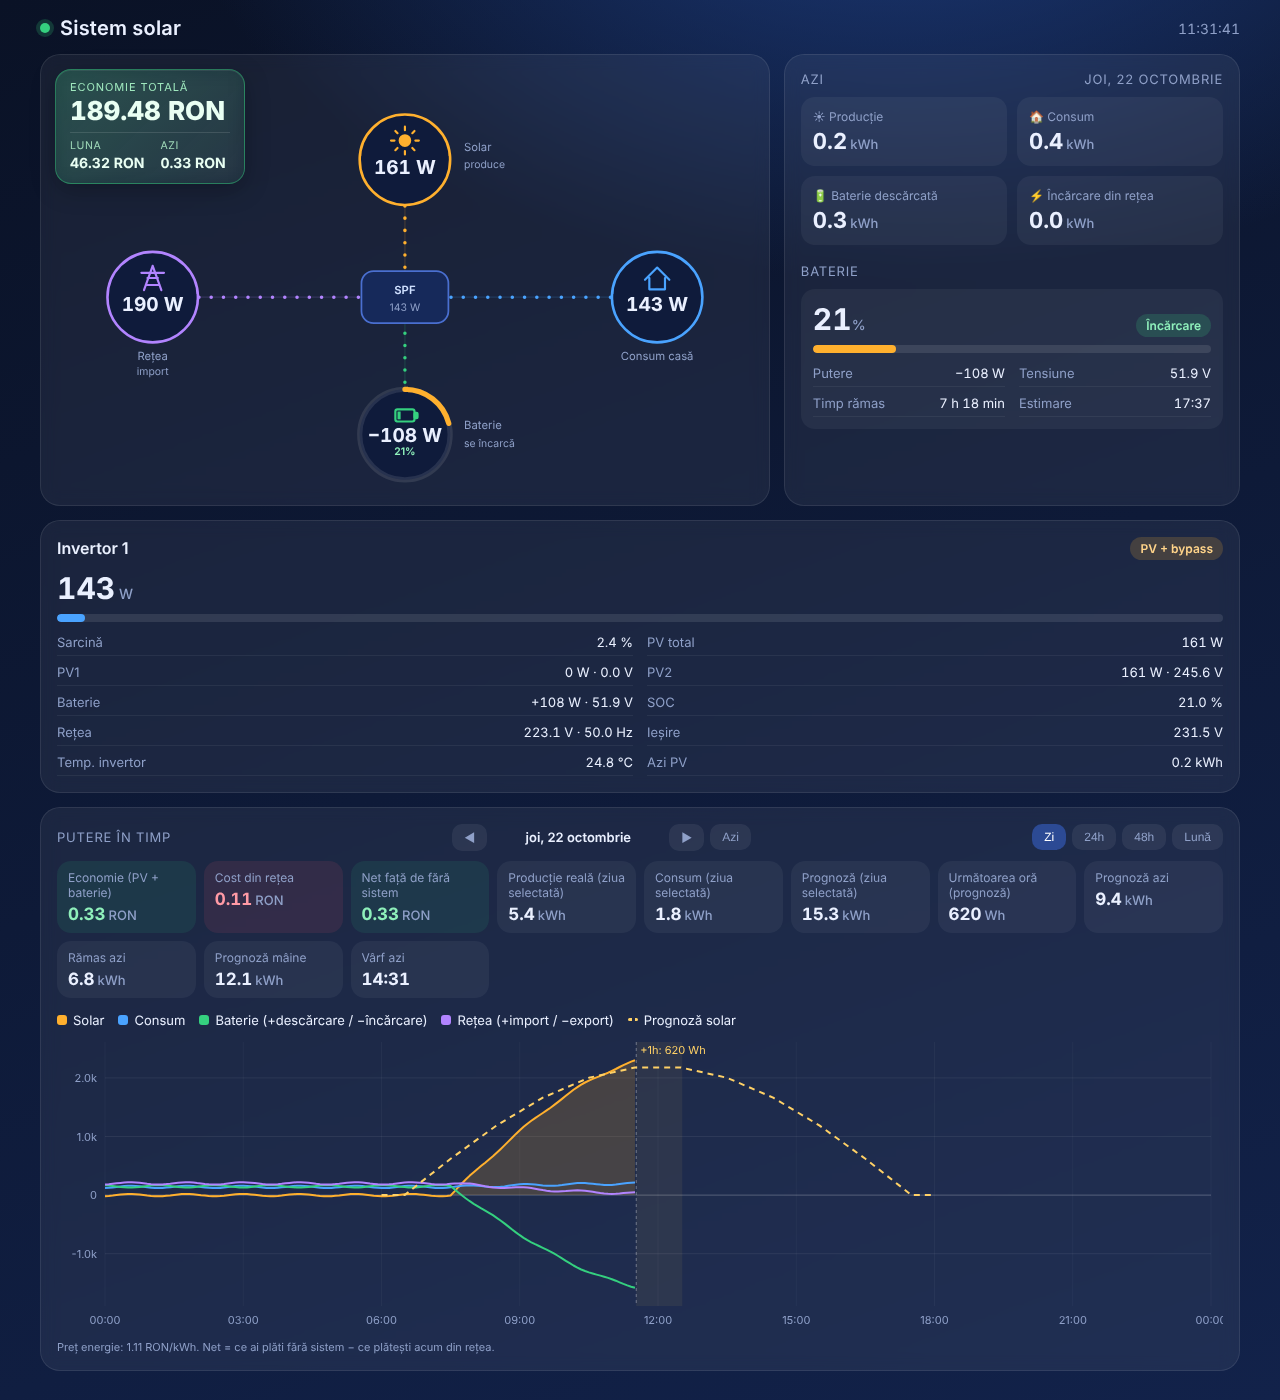
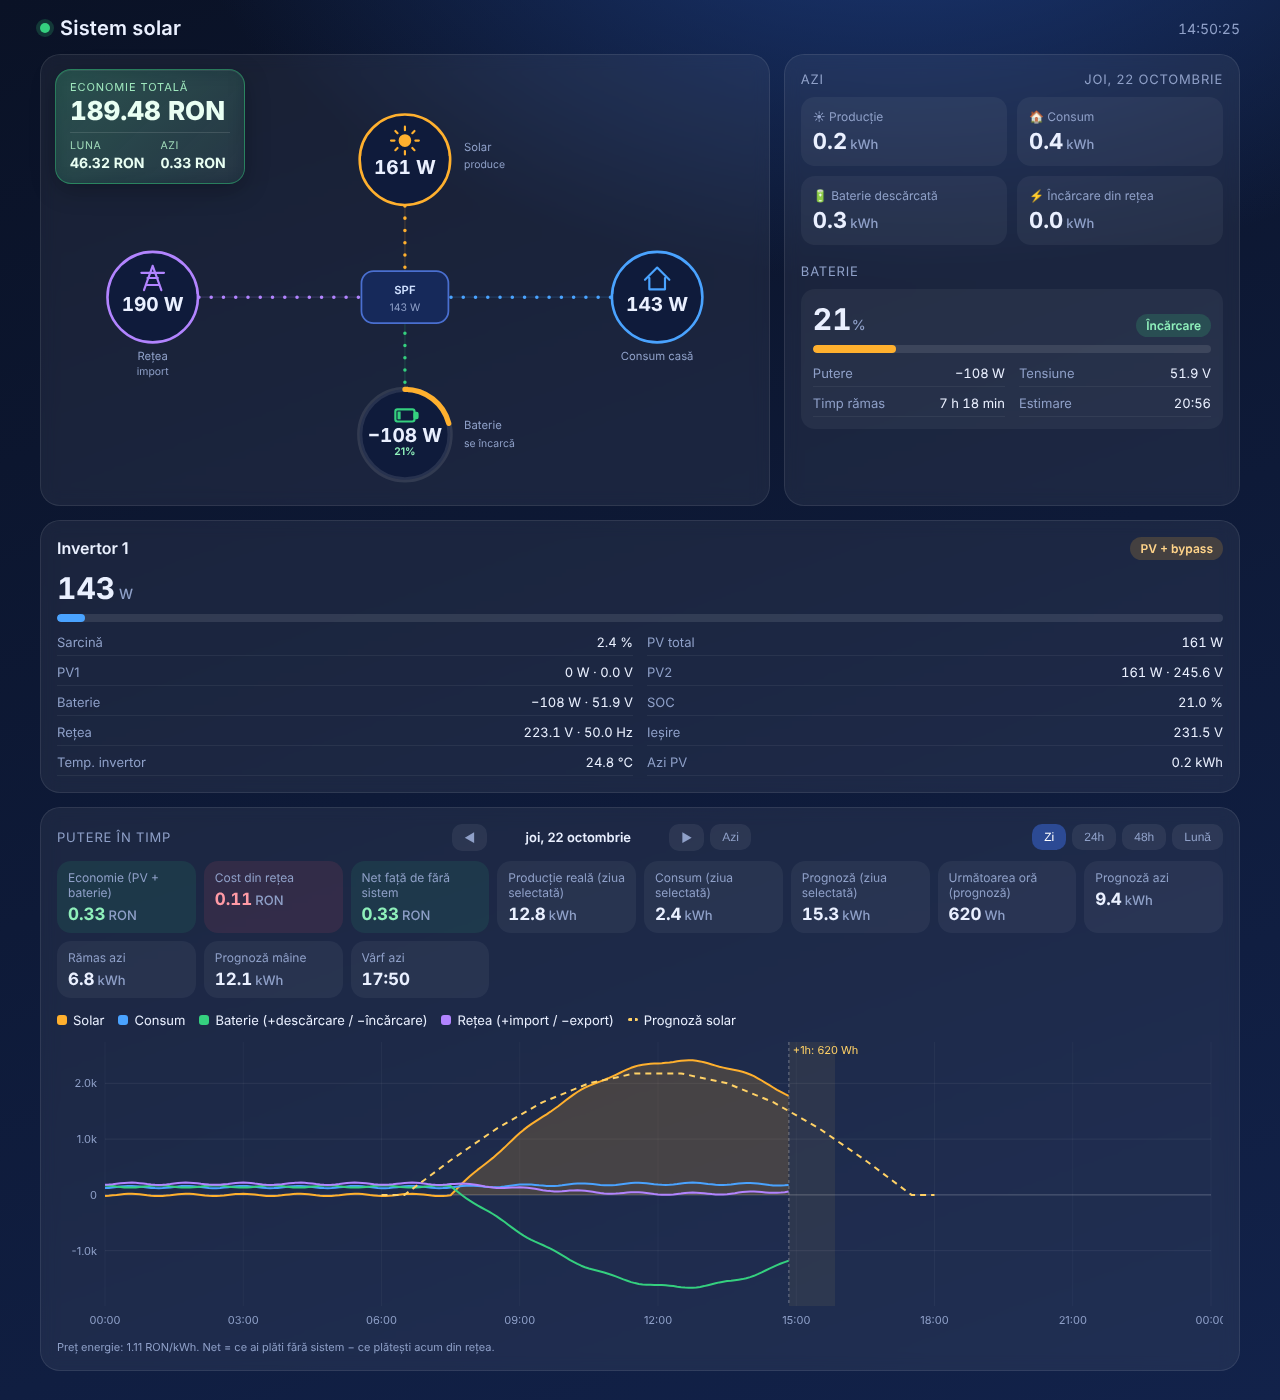
Dashboard: chart keeps the last real value, area starts with the data, same battery sign everywhere, ETA shows the day
- Home Assistant stores a state only when it changes, so an empty chart bucket
  now repeats the last real value instead of the previous bucket's average (a
  grid import that dropped to 0 stayed drawn at ~1.1 kW and inflated the grid cost).
- The shaded area under the solar curve closes where the data starts, not at 00:00.
- Inverter card shows battery power with the page's sign (+ discharging, - charging).
- Battery ETA more than a day away shows the weekday.

diff --git a/homeassistant/dashboard/solar-1-inverter-grid.html b/homeassistant/dashboard/solar-1-inverter-grid.html
@@ -244,6 +244,8 @@ function fmtH(h){if(!isFinite(h))return '–';const m=Math.round(h*60);return Ma
 function k1(v){return isFinite(v)?v.toFixed(1):'–'}
 function sum(ids){let t=0,ok=false;for(const i of ids){const v=num(i);if(isFinite(v)){t+=v;ok=true}}return ok?t:NaN}
 const hm=t=>new Date(t).toLocaleTimeString('ro-RO',{hour:'2-digit',minute:'2-digit'});
+/* clock time, with the day when it is not today (e.g. "sâm. 05:54") */
+const whenTxt=t=>{const d=new Date(t),n=new Date();return d.toDateString()===n.toDateString()?hm(d):d.toLocaleDateString('ro-RO',{weekday:'short'})+' '+hm(d)};
 const ron=v=>isFinite(v)?(v<0?'−':'')+Math.abs(v).toFixed(2)+' RON':'–';
 const ronN=v=>isFinite(v)?(v<0?'−':'')+Math.abs(v).toFixed(2):'–';
 
@@ -352,7 +354,7 @@ function update(){
   const eta=dis?num(E.etaEmpty):chg?num(E.etaFull):NaN;
   $('b_eta').textContent=fmtH(eta);
   const etat=dis?st(E.etaEmptyT):chg?st(E.etaFullT):null;
-  $('b_etat').textContent=etat&&etat.state&&etat.state!=='unknown'&&etat.state!=='unavailable'?hm(etat.state):'–';
+  $('b_etat').textContent=etat&&etat.state&&etat.state!=='unknown'&&etat.state!=='unavailable'?whenTxt(etat.state):'–';
   const T=(a)=>sum(INV.flatMap(n=>a.map(s=>`sensor.growatt_${n}_${s}`)));
   $('t_pv').innerHTML=k1(T(['pv_energy_today']))+'<small>kWh</small>';
   $('t_load').innerHTML=k1(T(['op_discharge_energy_today']))+'<small>kWh</small>';
@@ -371,7 +373,7 @@ function update(){
     $(`i${n}_pv`).textContent=fmtW(nz(p1)+nz(p2));
     $(`i${n}_pv1`).textContent=fmtW(p1)+' · '+k1(num(p('pv1_voltage')))+' V';
     $(`i${n}_pv2`).textContent=fmtW(p2)+' · '+k1(num(p('pv2_voltage')))+' V';
-    const bpw=num(p('battery_power'));
+    const bpw=num(p('battery_power'))*BATSIGN; /* same sign as the rest of the page */
     $(`i${n}_bat`).textContent=(isFinite(bpw)?sgn(Math.round(bpw))+fmtW(Math.abs(bpw)):'–')+' · '+k1(num(p('battery_voltage')))+' V';
     $(`i${n}_soc`).textContent=k1(num(p('battery_soc')))+' %';
     $(`i${n}_gv`).textContent=k1(num(p('grid_voltage')))+' V · '+k1(num(p('grid_frequency')))+' Hz';
@@ -474,16 +476,17 @@ async function loadHist(){
       entity_ids:ids,minimal_response:true,no_attributes:true,significant_changes_only:false});
     for(const s of SER){
       if(!s.id)continue;
-      const sm=new Array(n).fill(0),cnt=new Array(n).fill(0);
+      /* HA stores a state only when it changes: an empty bucket keeps the last real value, not the previous average */
+      const sm=new Array(n).fill(0),cnt=new Array(n).fill(0),lastv=new Array(n).fill(null);
       for(const r of (res[s.id]||[])){
         const v=parseFloat(r.s);if(!isFinite(v))continue;
         const ts=(r.lu??r.lc)*1000;
-        const i=Math.floor((ts-t0)/step);if(i<0||i>=n)continue;sm[i]+=v*s.sign;cnt[i]++;
+        const i=Math.floor((ts-t0)/step);if(i<0||i>=n)continue;sm[i]+=v*s.sign;cnt[i]++;lastv[i]=v*s.sign;
       }
       let last=null;const arr=[];
       for(let i=0;i<n;i++){
         if(t0+i*step>end){arr.push(null);continue}
-        if(cnt[i])last=sm[i]/cnt[i];arr.push(last);
+        if(cnt[i]){arr.push(sm[i]/cnt[i]);last=lastv[i]}else arr.push(last);
       }
       nd.s[s.k]=arr;
     }
@@ -624,8 +627,9 @@ function draw(){
     for(let i=0;i<a.length;i++){if(a[i]==null)continue;d+=(started?'L':'M')+X(data.t0+i*data.step).toFixed(1)+' '+Y(a[i]).toFixed(1);started=true}
     if(s.area&&started){
       let li=a.length-1;while(li>0&&a[li]==null)li--;
+      let fi=0;while(fi<li&&a[fi]==null)fi++;
       const y0=Y(Math.max(lo,0));
-      o+=`<path d="${d}L${X(data.t0+li*data.step)} ${y0}L${X(data.t0)} ${y0}Z" fill="${s.c}" opacity=".18"/>`;
+      o+=`<path d="${d}L${X(data.t0+li*data.step)} ${y0}L${X(data.t0+fi*data.step)} ${y0}Z" fill="${s.c}" opacity=".18"/>`;
     }
     o+=`<path d="${d}" fill="none" stroke="${s.c}" stroke-width="2" stroke-linejoin="round"/>`;
   }

diff --git a/homeassistant/dashboard/solar-1-inverter.html b/homeassistant/dashboard/solar-1-inverter.html
@@ -244,6 +244,8 @@ function fmtH(h){if(!isFinite(h))return '–';const m=Math.round(h*60);return Ma
 function k1(v){return isFinite(v)?v.toFixed(1):'–'}
 function sum(ids){let t=0,ok=false;for(const i of ids){const v=num(i);if(isFinite(v)){t+=v;ok=true}}return ok?t:NaN}
 const hm=t=>new Date(t).toLocaleTimeString('ro-RO',{hour:'2-digit',minute:'2-digit'});
+/* clock time, with the day when it is not today (e.g. "sâm. 05:54") */
+const whenTxt=t=>{const d=new Date(t),n=new Date();return d.toDateString()===n.toDateString()?hm(d):d.toLocaleDateString('ro-RO',{weekday:'short'})+' '+hm(d)};
 const ron=v=>isFinite(v)?(v<0?'−':'')+Math.abs(v).toFixed(2)+' RON':'–';
 const ronN=v=>isFinite(v)?(v<0?'−':'')+Math.abs(v).toFixed(2):'–';
 
@@ -352,7 +354,7 @@ function update(){
   const eta=dis?num(E.etaEmpty):chg?num(E.etaFull):NaN;
   $('b_eta').textContent=fmtH(eta);
   const etat=dis?st(E.etaEmptyT):chg?st(E.etaFullT):null;
-  $('b_etat').textContent=etat&&etat.state&&etat.state!=='unknown'&&etat.state!=='unavailable'?hm(etat.state):'–';
+  $('b_etat').textContent=etat&&etat.state&&etat.state!=='unknown'&&etat.state!=='unavailable'?whenTxt(etat.state):'–';
   const T=(a)=>sum(INV.flatMap(n=>a.map(s=>`sensor.growatt_${n}_${s}`)));
   $('t_pv').innerHTML=k1(T(['pv_energy_today']))+'<small>kWh</small>';
   $('t_load').innerHTML=k1(T(['op_discharge_energy_today']))+'<small>kWh</small>';
@@ -371,7 +373,7 @@ function update(){
     $(`i${n}_pv`).textContent=fmtW(nz(p1)+nz(p2));
     $(`i${n}_pv1`).textContent=fmtW(p1)+' · '+k1(num(p('pv1_voltage')))+' V';
     $(`i${n}_pv2`).textContent=fmtW(p2)+' · '+k1(num(p('pv2_voltage')))+' V';
-    const bpw=num(p('battery_power'));
+    const bpw=num(p('battery_power'))*BATSIGN; /* same sign as the rest of the page */
     $(`i${n}_bat`).textContent=(isFinite(bpw)?sgn(Math.round(bpw))+fmtW(Math.abs(bpw)):'–')+' · '+k1(num(p('battery_voltage')))+' V';
     $(`i${n}_soc`).textContent=k1(num(p('battery_soc')))+' %';
     $(`i${n}_gv`).textContent=k1(num(p('grid_voltage')))+' V · '+k1(num(p('grid_frequency')))+' Hz';
@@ -474,16 +476,17 @@ async function loadHist(){
       entity_ids:ids,minimal_response:true,no_attributes:true,significant_changes_only:false});
     for(const s of SER){
       if(!s.id)continue;
-      const sm=new Array(n).fill(0),cnt=new Array(n).fill(0);
+      /* HA stores a state only when it changes: an empty bucket keeps the last real value, not the previous average */
+      const sm=new Array(n).fill(0),cnt=new Array(n).fill(0),lastv=new Array(n).fill(null);
       for(const r of (res[s.id]||[])){
         const v=parseFloat(r.s);if(!isFinite(v))continue;
         const ts=(r.lu??r.lc)*1000;
-        const i=Math.floor((ts-t0)/step);if(i<0||i>=n)continue;sm[i]+=v*s.sign;cnt[i]++;
+        const i=Math.floor((ts-t0)/step);if(i<0||i>=n)continue;sm[i]+=v*s.sign;cnt[i]++;lastv[i]=v*s.sign;
       }
       let last=null;const arr=[];
       for(let i=0;i<n;i++){
         if(t0+i*step>end){arr.push(null);continue}
-        if(cnt[i])last=sm[i]/cnt[i];arr.push(last);
+        if(cnt[i]){arr.push(sm[i]/cnt[i]);last=lastv[i]}else arr.push(last);
       }
       nd.s[s.k]=arr;
     }
@@ -624,8 +627,9 @@ function draw(){
     for(let i=0;i<a.length;i++){if(a[i]==null)continue;d+=(started?'L':'M')+X(data.t0+i*data.step).toFixed(1)+' '+Y(a[i]).toFixed(1);started=true}
     if(s.area&&started){
       let li=a.length-1;while(li>0&&a[li]==null)li--;
+      let fi=0;while(fi<li&&a[fi]==null)fi++;
       const y0=Y(Math.max(lo,0));
-      o+=`<path d="${d}L${X(data.t0+li*data.step)} ${y0}L${X(data.t0)} ${y0}Z" fill="${s.c}" opacity=".18"/>`;
+      o+=`<path d="${d}L${X(data.t0+li*data.step)} ${y0}L${X(data.t0+fi*data.step)} ${y0}Z" fill="${s.c}" opacity=".18"/>`;
     }
     o+=`<path d="${d}" fill="none" stroke="${s.c}" stroke-width="2" stroke-linejoin="round"/>`;
   }

diff --git a/homeassistant/dashboard/solar-3-inverters.html b/homeassistant/dashboard/solar-3-inverters.html
@@ -244,6 +244,8 @@ function fmtH(h){if(!isFinite(h))return '–';const m=Math.round(h*60);return Ma
 function k1(v){return isFinite(v)?v.toFixed(1):'–'}
 function sum(ids){let t=0,ok=false;for(const i of ids){const v=num(i);if(isFinite(v)){t+=v;ok=true}}return ok?t:NaN}
 const hm=t=>new Date(t).toLocaleTimeString('ro-RO',{hour:'2-digit',minute:'2-digit'});
+/* clock time, with the day when it is not today (e.g. "sâm. 05:54") */
+const whenTxt=t=>{const d=new Date(t),n=new Date();return d.toDateString()===n.toDateString()?hm(d):d.toLocaleDateString('ro-RO',{weekday:'short'})+' '+hm(d)};
 const ron=v=>isFinite(v)?(v<0?'−':'')+Math.abs(v).toFixed(2)+' RON':'–';
 const ronN=v=>isFinite(v)?(v<0?'−':'')+Math.abs(v).toFixed(2):'–';
 
@@ -352,7 +354,7 @@ function update(){
   const eta=dis?num(E.etaEmpty):chg?num(E.etaFull):NaN;
   $('b_eta').textContent=fmtH(eta);
   const etat=dis?st(E.etaEmptyT):chg?st(E.etaFullT):null;
-  $('b_etat').textContent=etat&&etat.state&&etat.state!=='unknown'&&etat.state!=='unavailable'?hm(etat.state):'–';
+  $('b_etat').textContent=etat&&etat.state&&etat.state!=='unknown'&&etat.state!=='unavailable'?whenTxt(etat.state):'–';
   const T=(a)=>sum(INV.flatMap(n=>a.map(s=>`sensor.growatt_${n}_${s}`)));
   $('t_pv').innerHTML=k1(T(['pv_energy_today']))+'<small>kWh</small>';
   $('t_load').innerHTML=k1(T(['op_discharge_energy_today']))+'<small>kWh</small>';
@@ -371,7 +373,7 @@ function update(){
     $(`i${n}_pv`).textContent=fmtW(nz(p1)+nz(p2));
     $(`i${n}_pv1`).textContent=fmtW(p1)+' · '+k1(num(p('pv1_voltage')))+' V';
     $(`i${n}_pv2`).textContent=fmtW(p2)+' · '+k1(num(p('pv2_voltage')))+' V';
-    const bpw=num(p('battery_power'));
+    const bpw=num(p('battery_power'))*BATSIGN; /* same sign as the rest of the page */
     $(`i${n}_bat`).textContent=(isFinite(bpw)?sgn(Math.round(bpw))+fmtW(Math.abs(bpw)):'–')+' · '+k1(num(p('battery_voltage')))+' V';
     $(`i${n}_soc`).textContent=k1(num(p('battery_soc')))+' %';
     $(`i${n}_gv`).textContent=k1(num(p('grid_voltage')))+' V · '+k1(num(p('grid_frequency')))+' Hz';
@@ -474,16 +476,17 @@ async function loadHist(){
       entity_ids:ids,minimal_response:true,no_attributes:true,significant_changes_only:false});
     for(const s of SER){
       if(!s.id)continue;
-      const sm=new Array(n).fill(0),cnt=new Array(n).fill(0);
+      /* HA stores a state only when it changes: an empty bucket keeps the last real value, not the previous average */
+      const sm=new Array(n).fill(0),cnt=new Array(n).fill(0),lastv=new Array(n).fill(null);
       for(const r of (res[s.id]||[])){
         const v=parseFloat(r.s);if(!isFinite(v))continue;
         const ts=(r.lu??r.lc)*1000;
-        const i=Math.floor((ts-t0)/step);if(i<0||i>=n)continue;sm[i]+=v*s.sign;cnt[i]++;
+        const i=Math.floor((ts-t0)/step);if(i<0||i>=n)continue;sm[i]+=v*s.sign;cnt[i]++;lastv[i]=v*s.sign;
       }
       let last=null;const arr=[];
       for(let i=0;i<n;i++){
         if(t0+i*step>end){arr.push(null);continue}
-        if(cnt[i])last=sm[i]/cnt[i];arr.push(last);
+        if(cnt[i]){arr.push(sm[i]/cnt[i]);last=lastv[i]}else arr.push(last);
       }
       nd.s[s.k]=arr;
     }
@@ -624,8 +627,9 @@ function draw(){
     for(let i=0;i<a.length;i++){if(a[i]==null)continue;d+=(started?'L':'M')+X(data.t0+i*data.step).toFixed(1)+' '+Y(a[i]).toFixed(1);started=true}
     if(s.area&&started){
       let li=a.length-1;while(li>0&&a[li]==null)li--;
+      let fi=0;while(fi<li&&a[fi]==null)fi++;
       const y0=Y(Math.max(lo,0));
-      o+=`<path d="${d}L${X(data.t0+li*data.step)} ${y0}L${X(data.t0)} ${y0}Z" fill="${s.c}" opacity=".18"/>`;
+      o+=`<path d="${d}L${X(data.t0+li*data.step)} ${y0}L${X(data.t0+fi*data.step)} ${y0}Z" fill="${s.c}" opacity=".18"/>`;
     }
     o+=`<path d="${d}" fill="none" stroke="${s.c}" stroke-width="2" stroke-linejoin="round"/>`;
   }
